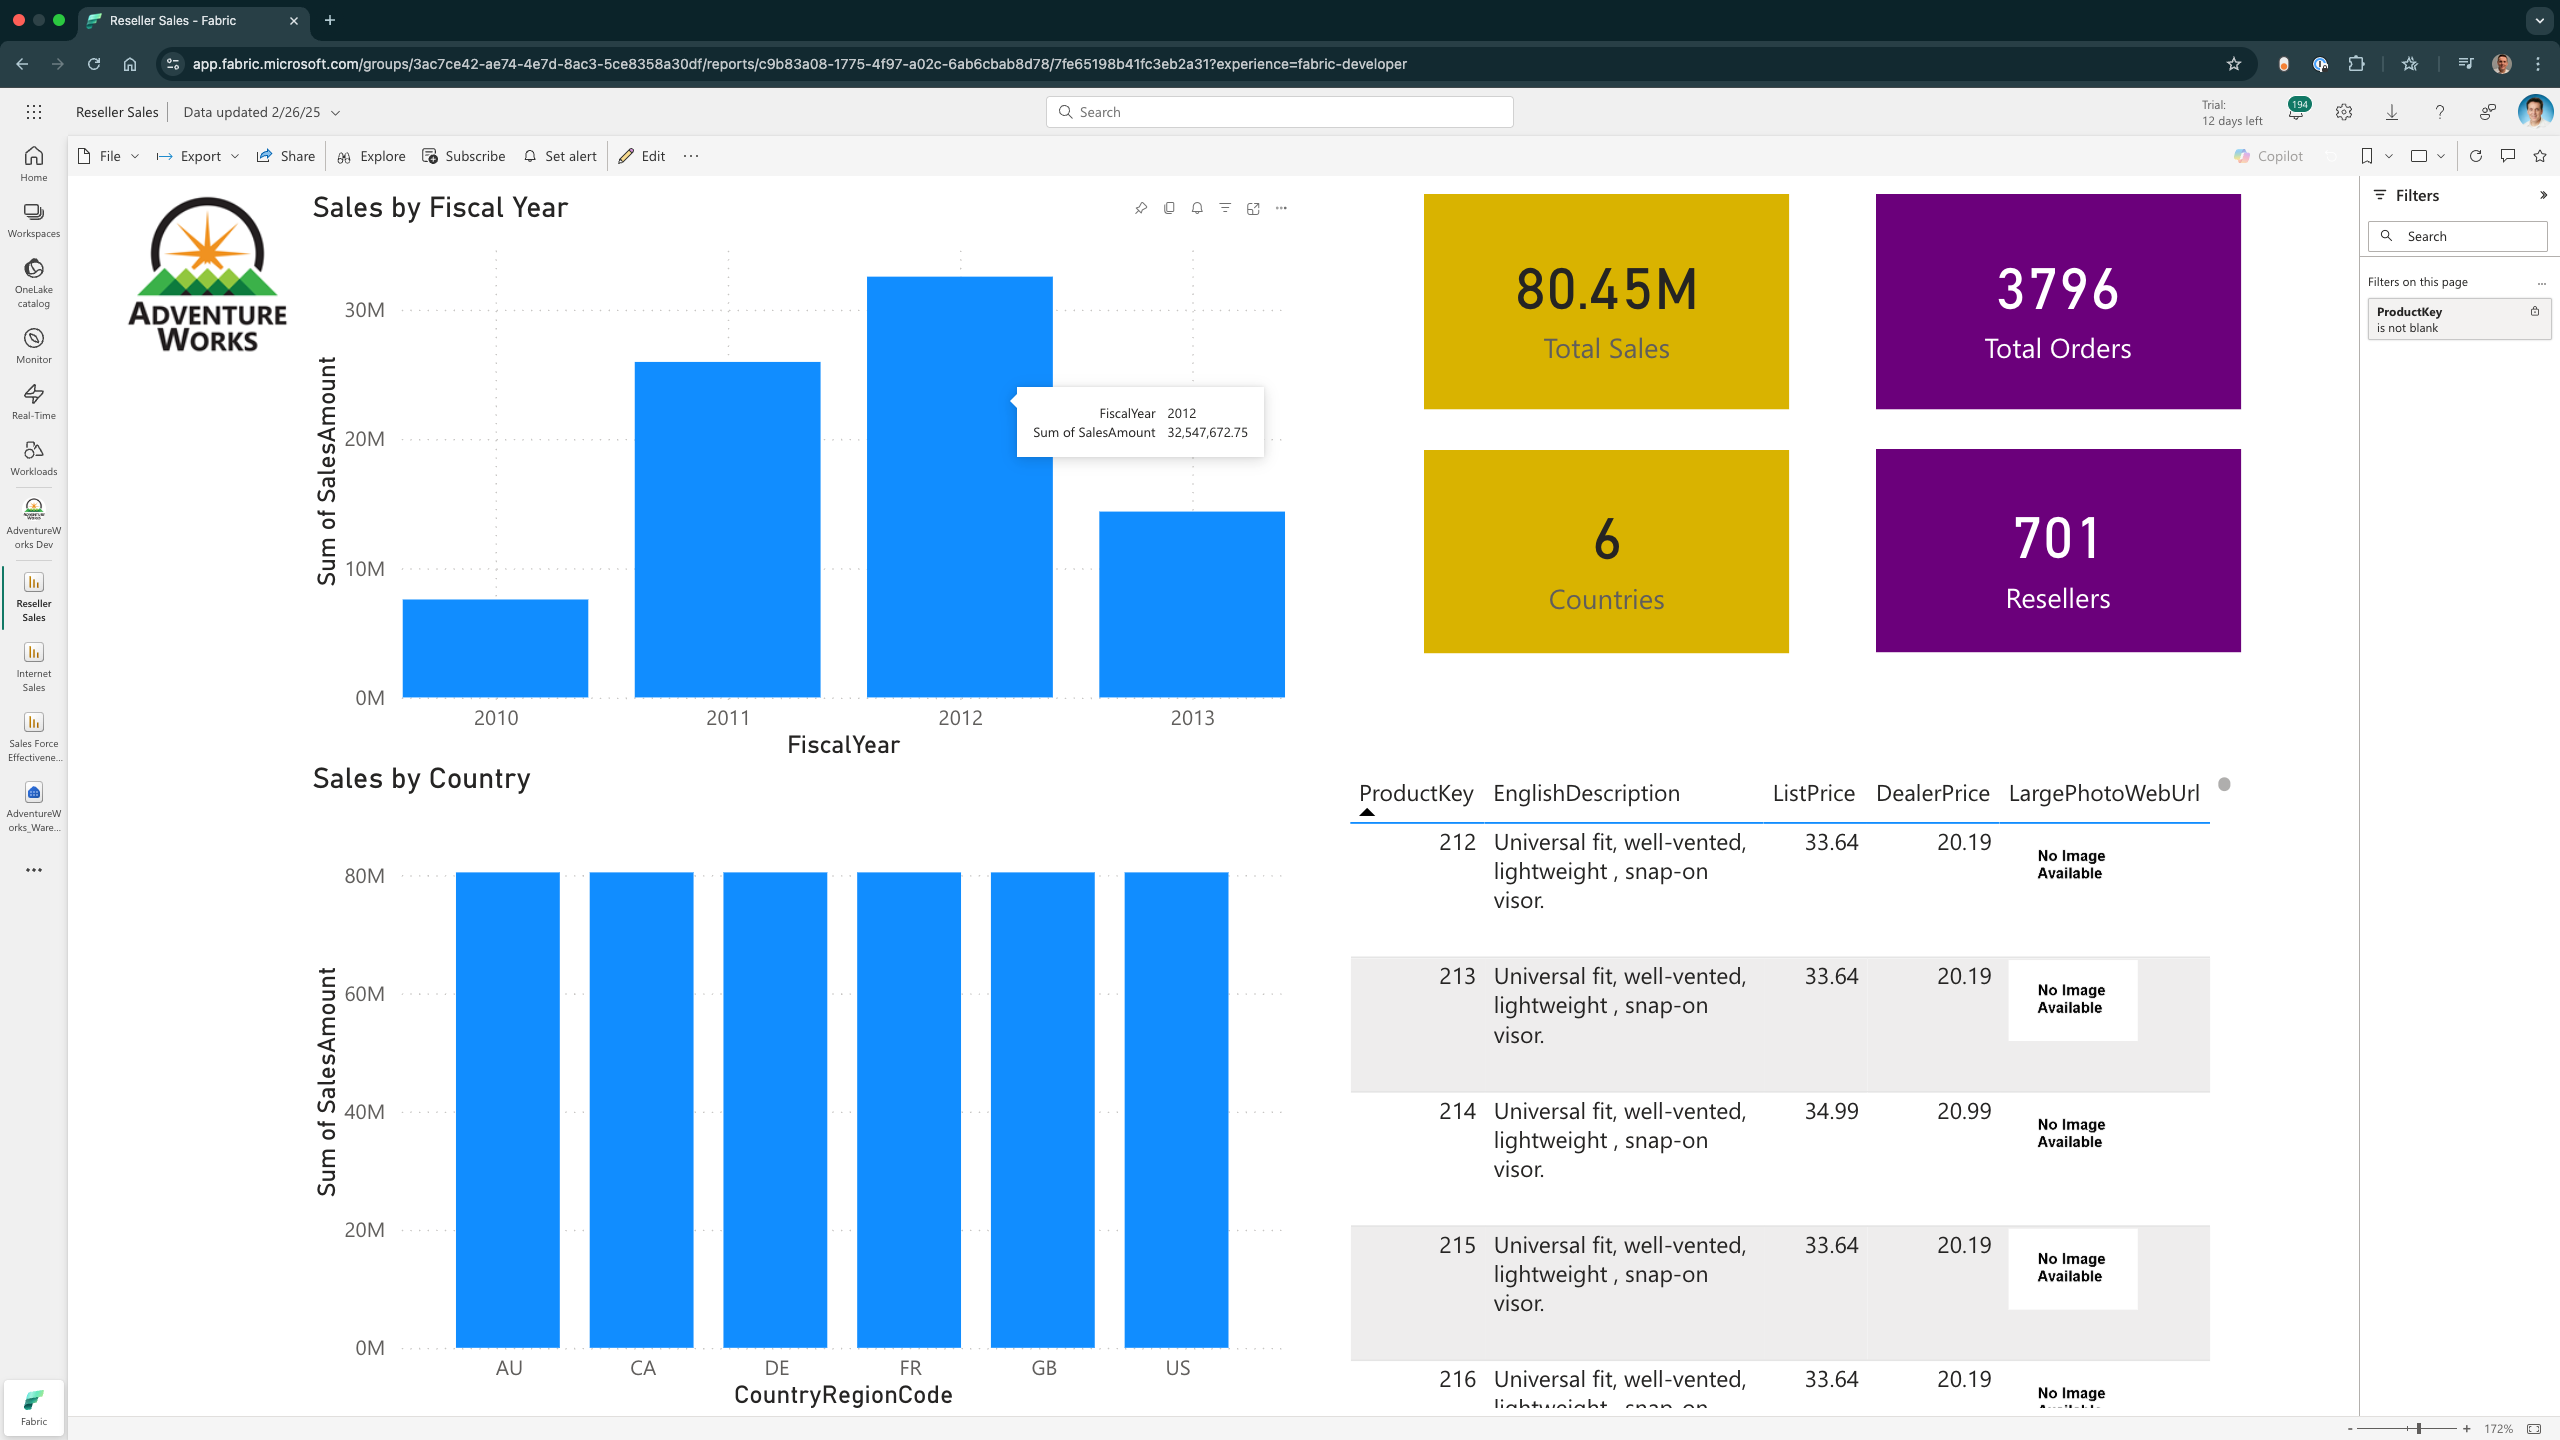
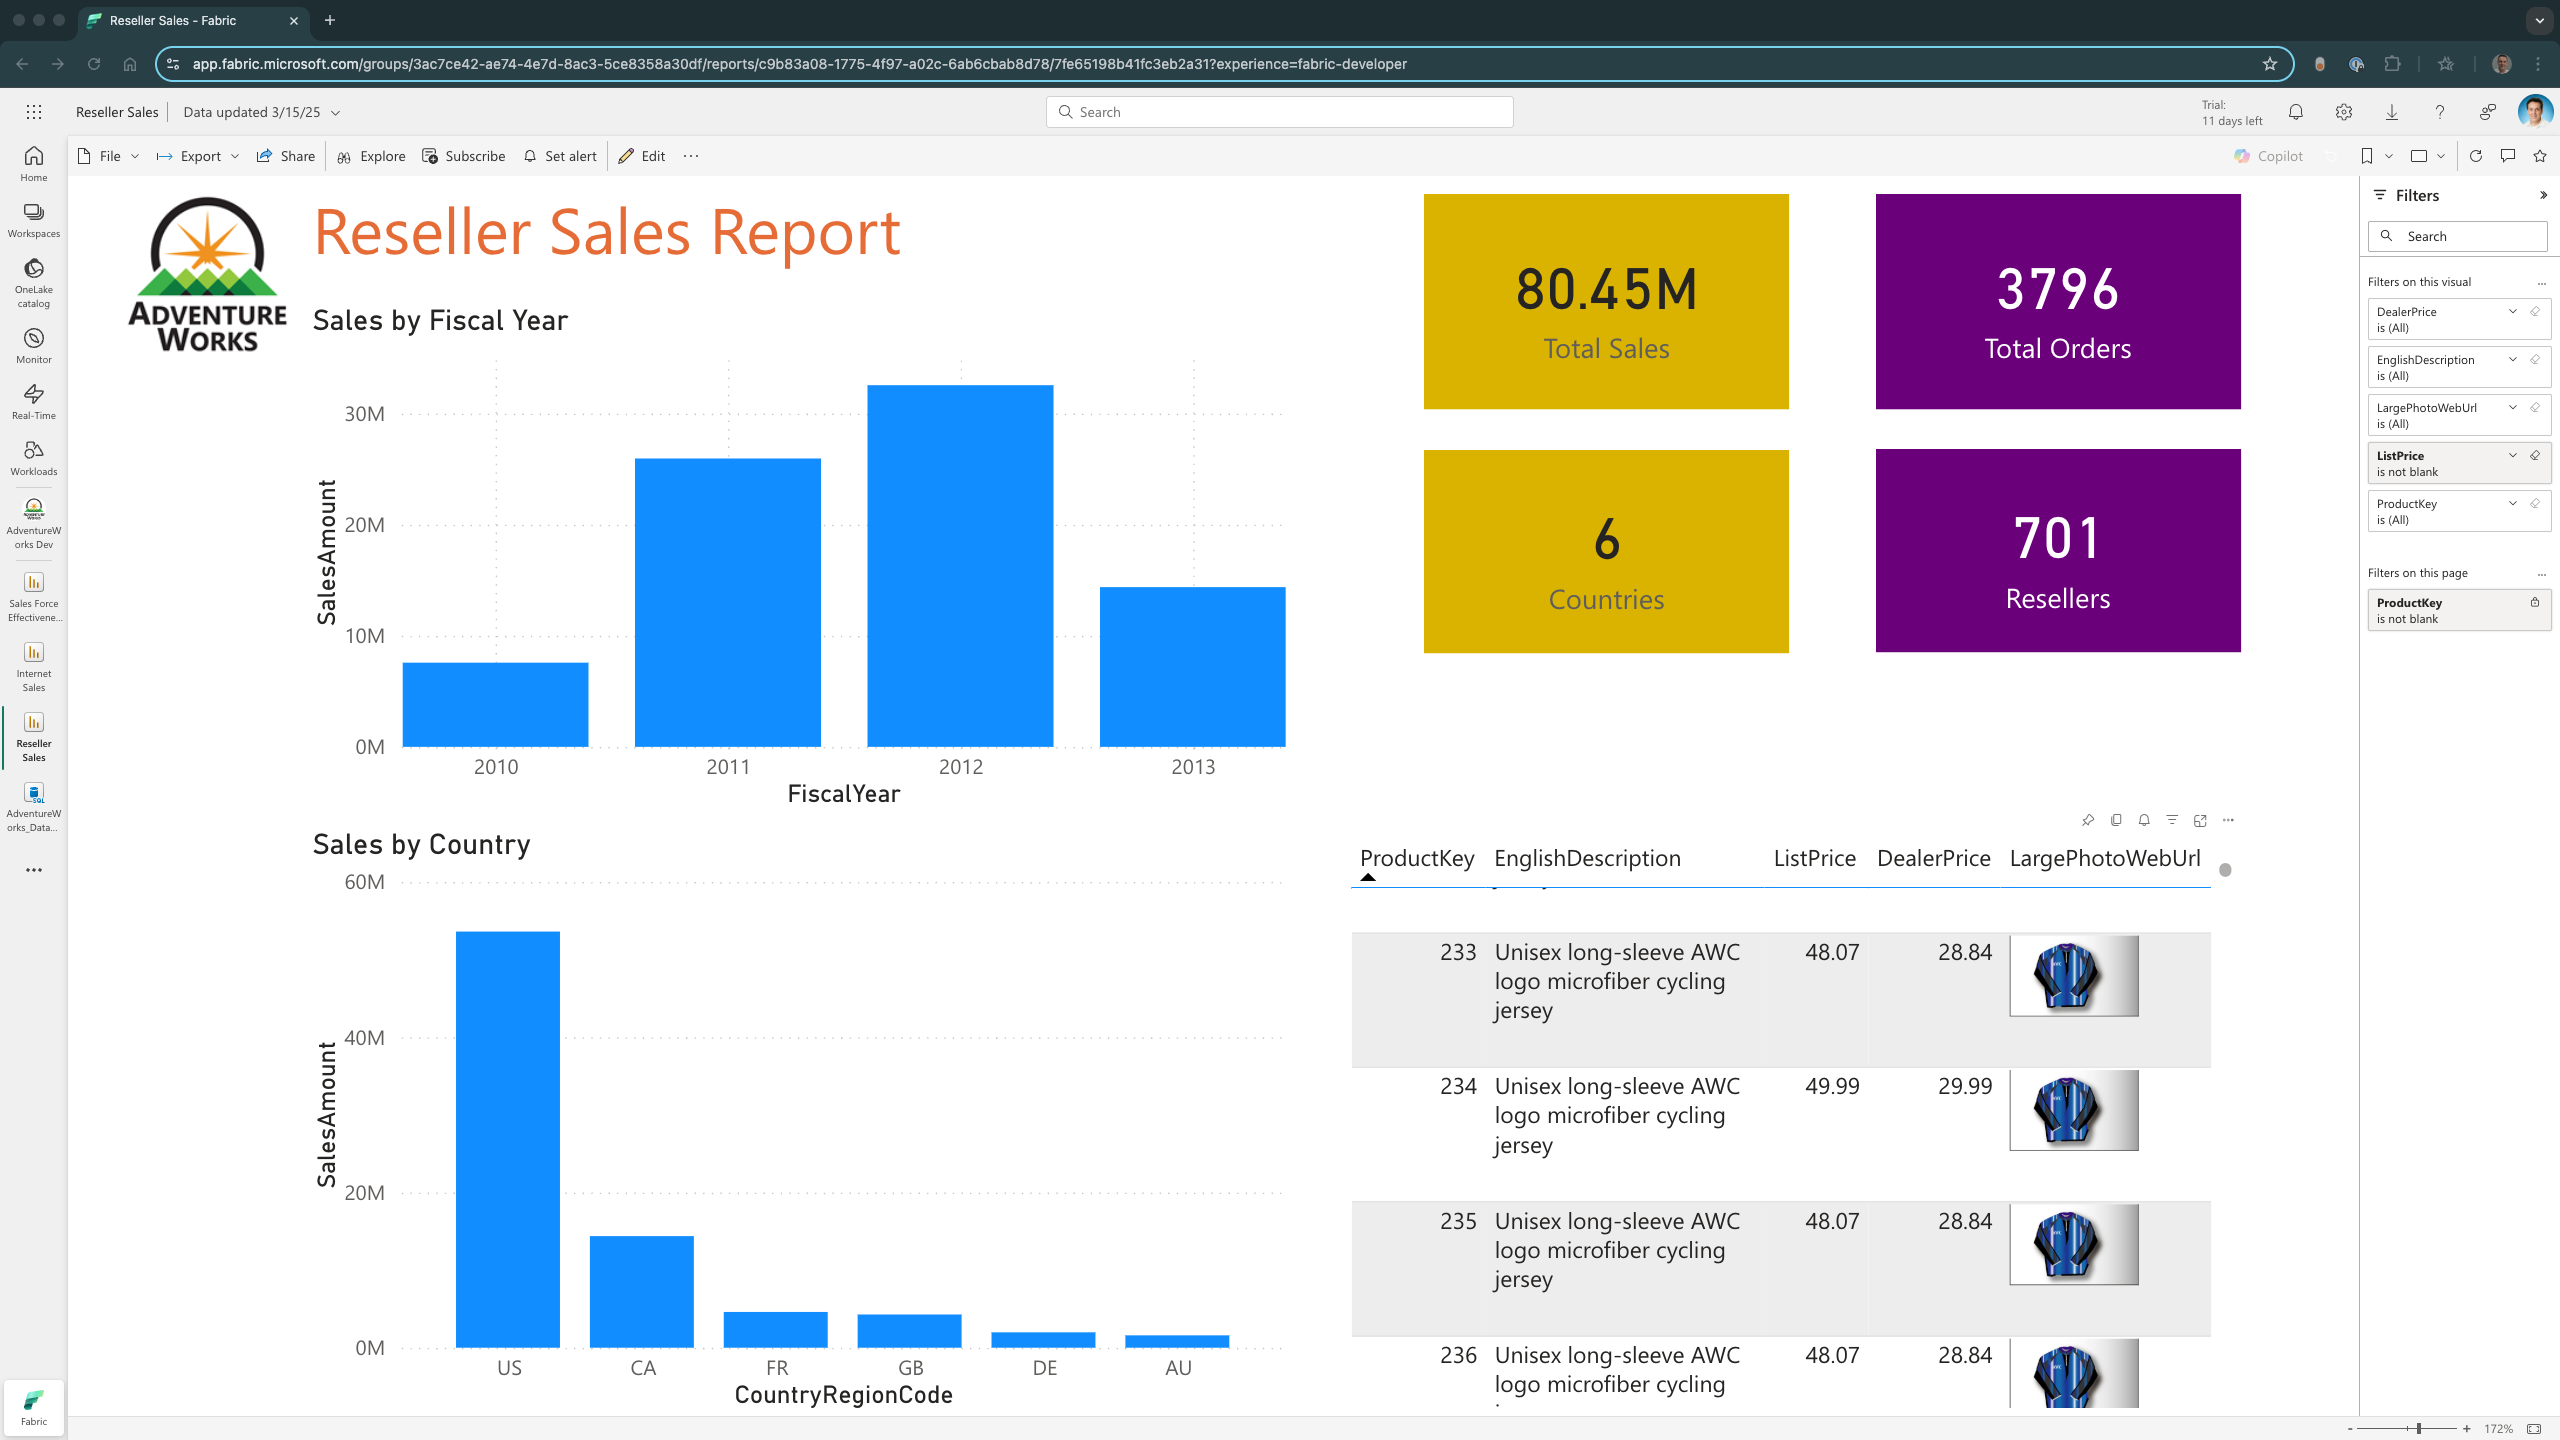
Added gold layer architecture

diff --git a/Readme.md b/Readme.md
@@ -20,7 +20,7 @@ A `Warehouse` hosts the **_SILVER_** layer with the data model needed to meet th
 1. Supports indexing for faster queries.
 1. Strong schema enforcement, with SQL to create primary and foreign keys.
 1. High concurrency, optimized for BI workloads needed for operational reporting.
-1. Works better with Power BI
+1. Works better with Power BI.
 
 Finally, the **_GOLD_** layer utilizes `SQL Database` because it supports the richest set of SQL language and development capabities (e.g., stored procedures, user-defined functions, etc). The `Semantic model` artifacts are built from the database to create a data mesh design and expose information as data products. This approach allows for reusable models for various users and business domains, enabling more fine-grained security, governance, and self-service reporting.
 
@@ -82,7 +82,7 @@ Import the `Notebook` named `"Process Bronze to Silver.ipynb", located in the `"
 
 In the Medallion Architecture, the **_SILVER_** layer is where data undergoes cleaning, validation, and transformation to create a more refined and consistent dataset. This layer is crucial for ensuring data quality and reliability, making it suitable for business intelligence and machine learning applications. The specific details for this project are as follows:
 - Converts text strings to binary format
-- Convert texts string to boolean format
+- Converts text strings to boolean format
 - Removes multi-byte characters
 - Performs data type conversion
 - Executes nullable transformations
